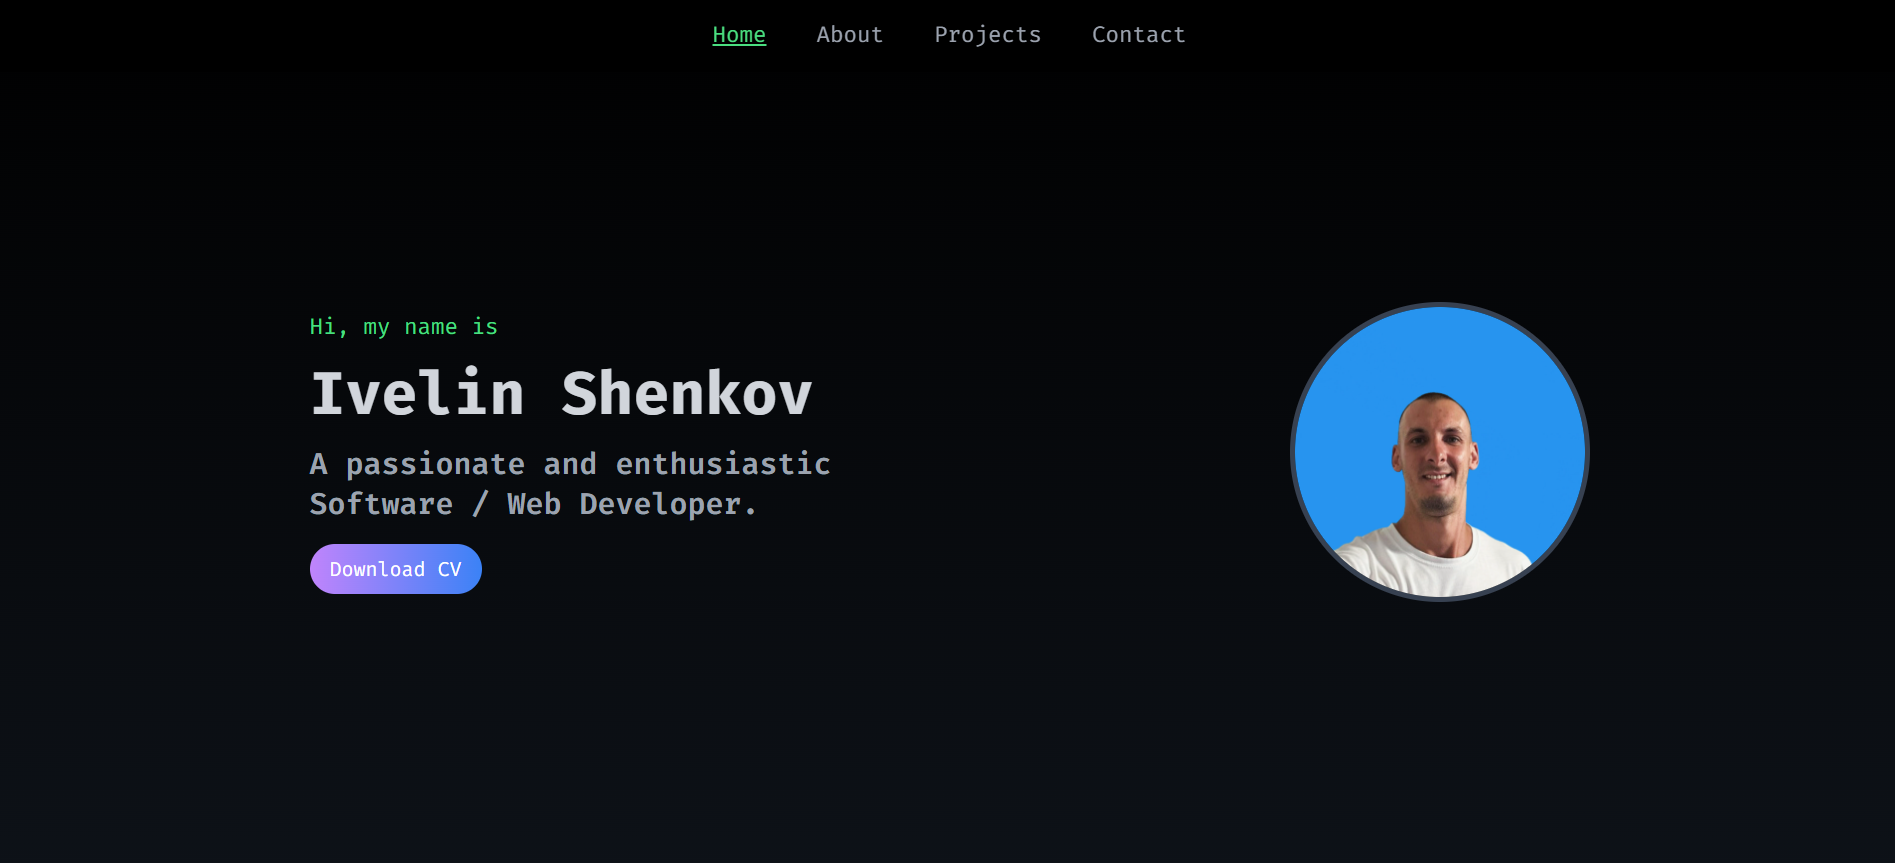
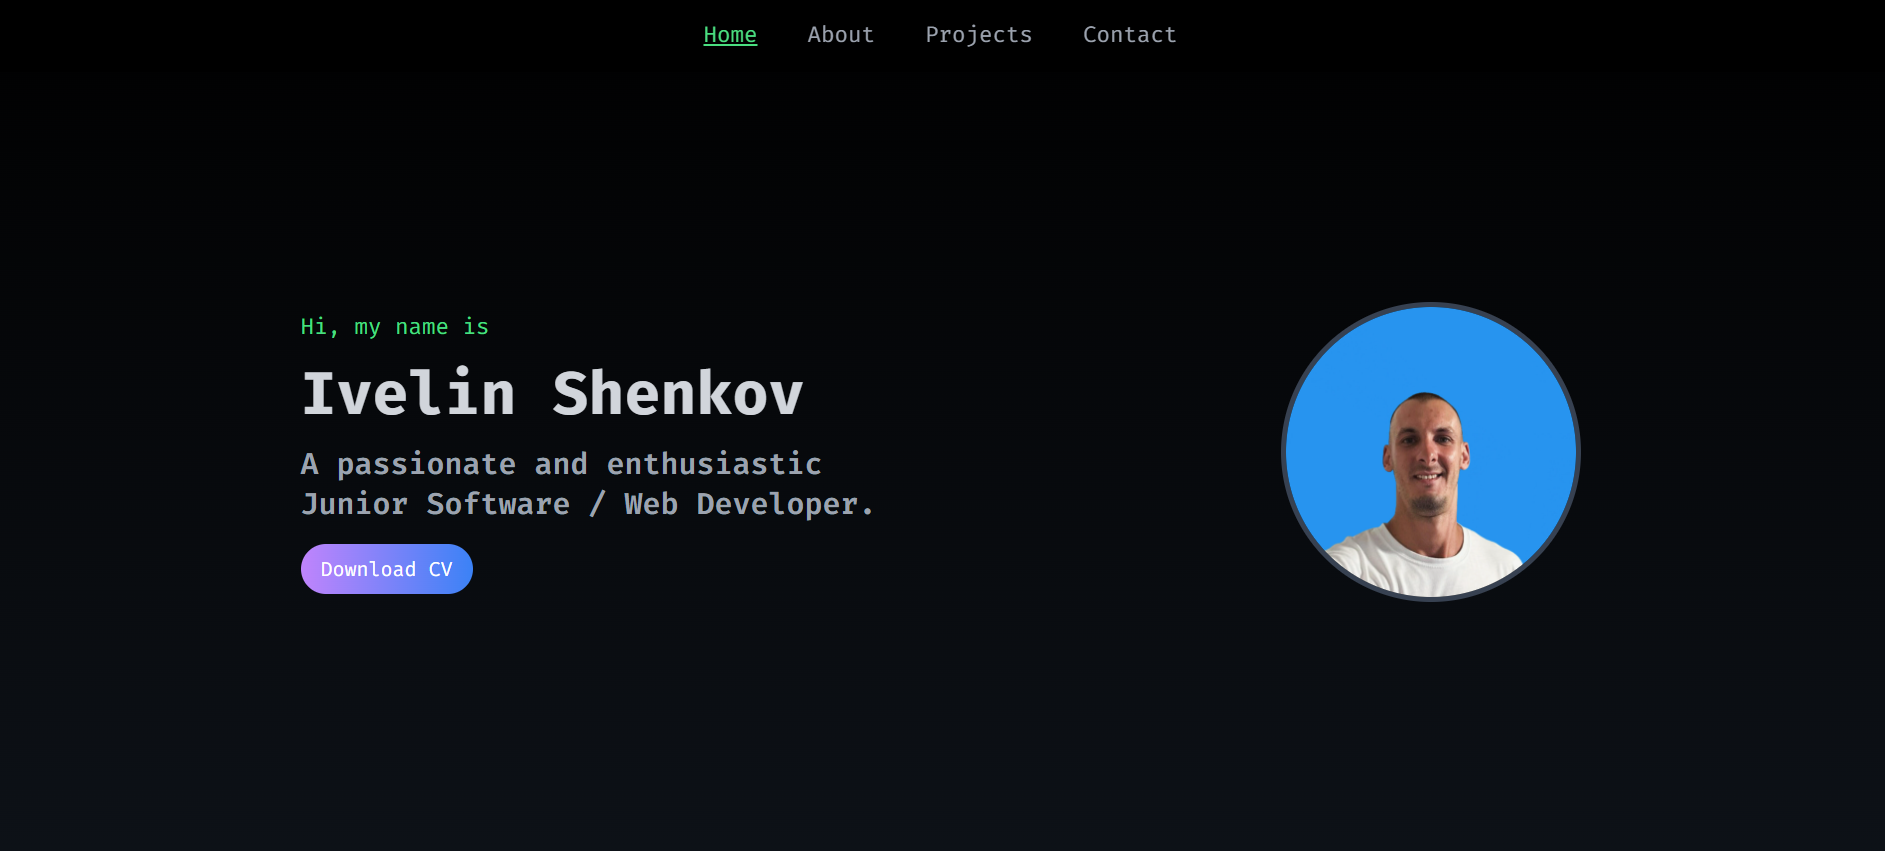
Update CV in Hero section and Home picture

diff --git a/client/src/components/Hero/Hero.jsx b/client/src/components/Hero/Hero.jsx
@@ -8,11 +8,11 @@ const Hero = () => {
                     <p className="text-green-400 text-base md:text-lg">Hi, my name is</p>
                     <h1 className="text-4xl md:text-5xl font-bold">Ivelin Shenkov</h1>
                     <h2 className="text-xl md:text-2xl font-semibold text-gray-400">
-                        A passionate and enthusiastic Software / Web Developer.
+                        A passionate and enthusiastic Junior Software / Web Developer.
                     </h2>
                     <div className="flex justify-start mt-8">
                         <a
-                            href="https://drive.google.com/uc?export=download&id=163PVj6jAPIKdns9l46j1iqPSH6WDZRnT"
+                            href="https://drive.google.com/uc?export=download&id=1NOeLQVbpMz4Gc9_5QVSp0iS-0m39KOCS"
                             download="Ivelin_Shenkov_CV.pdf"
                             className="bg-gradient-to-r from-purple-400 to-blue-500 text-white px-4 py-2 rounded-full transform transition-transform duration-300 hover:scale-105 hover:from-green-400 hover:to-blue-600 focus:outline-none focus:ring-2 focus:ring-offset-2 focus:ring-green-400"
                         >
